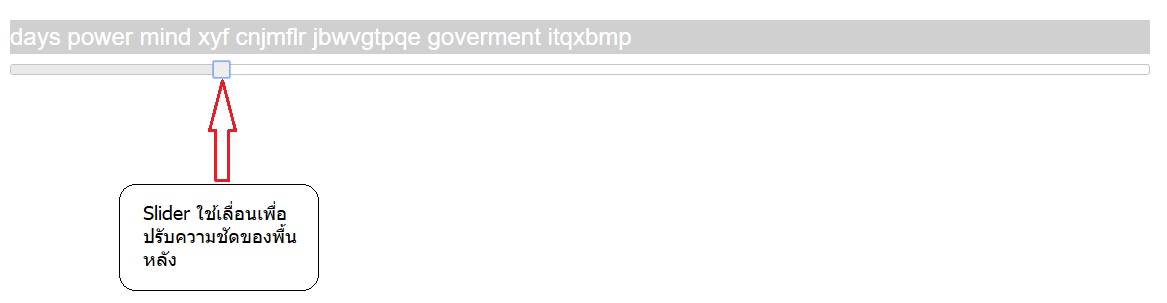
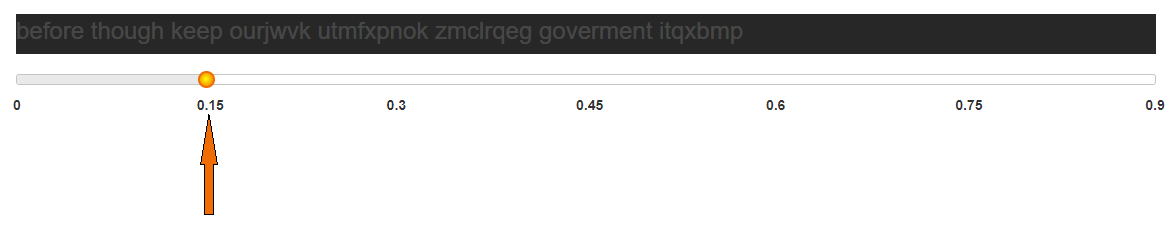
update look and feel.

diff --git a/js/opacity-manager.js b/js/opacity-manager.js
@@ -1,25 +1,32 @@
 var OpacityManager = (function () {
-    var handleElement = $("#custom-handle"),
+    var sliderElement = $("#opacity-slider"),
         init = function () {
             bindEvent();
         },
         bindEvent = function () {
-            $("#opacitySlider").slider({
+            sliderElement.slider({
                 orientation: "horizontal",
                 range: "min",
                 max: 1,
+                min: 0,
                 value: 0,
                 step: 0.15,
                 slide: updateOpacity,
+                create: displayScale,
             });
-            handleElement.text(0);
+        }
+        displayScale = function(){
+            var scaleWidth = $(".ui-slider").width() / 6;
+            for (var i = 0; i < 7; i++) {
+                var el = $('<label>'+(i * 15) / 100+'</label>').css('left',(scaleWidth * i)+'px');
+                sliderElement.append(el);
+            }
         },
         updateOpacity = function (event, ui) {
             var opacity = ui.value;
             $(".color-word").css('opacity', opacity)
             $(".overlay").css('opacity', 1 - opacity)
             $("#opacityBackground").val(opacity);
-            handleElement.text(opacity);
         };
 
     return {

diff --git a/css/opacity-background.css b/css/opacity-background.css
@@ -16,16 +16,21 @@
     position: absolute;
 }
 
-#custom-handle {
+#opacity-slider .ui-slider-handle {
     display: block;
-    top: -8px;
-    width: 40px;
-    height: 25px;
-    text-align: center;
+    border: 2px solid #f06d06;
+    border-radius: 50%;
     background-image: radial-gradient( circle, yellow, #f06d06);
 }
 
-#custom-handle.ui-state-active {
-    color: black;
-    font-weight: bold;
+#opacity-slider{
+    margin-bottom: 40px;
+}
+
+#opacity-slider label {
+    position: absolute;
+    width: 20px;
+    margin-left: -10px;
+    text-align: center;
+    margin-top: 20px;
 }

diff --git a/opacity-background.php b/opacity-background.php
@@ -53,8 +53,7 @@
                             }
                         ?>
                     </p>
-                    <div id="opacitySlider">
-                        <div id="custom-handle" class="ui-slider-handle"></div>
+                    <div id="opacity-slider">
                     </div>
                 </div>
             </div>
